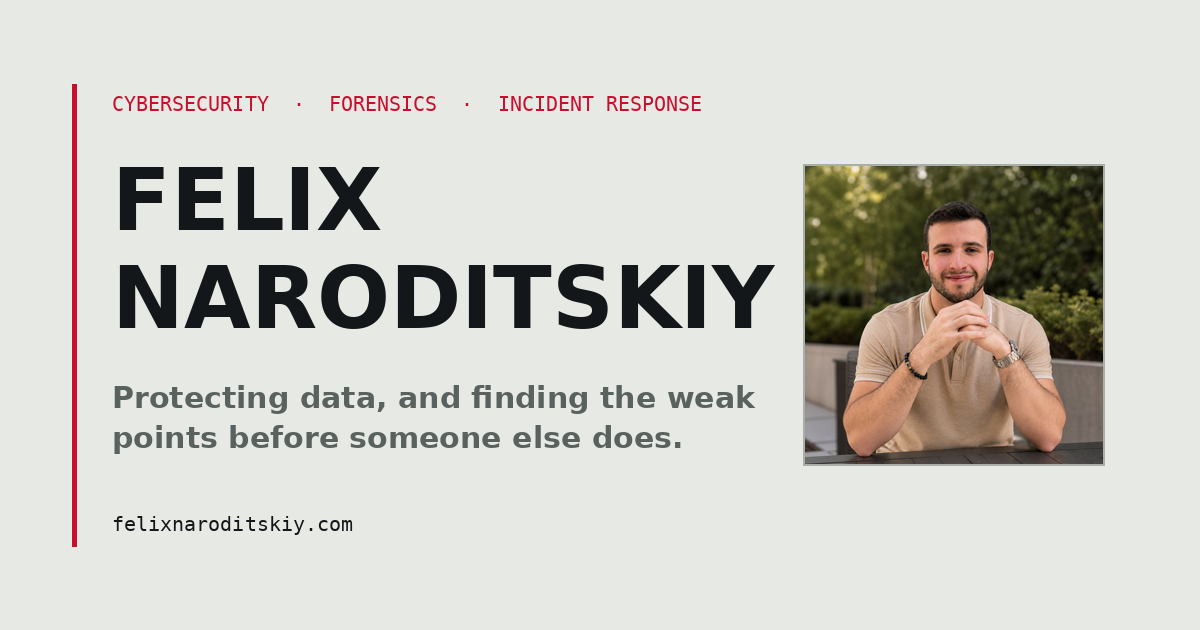
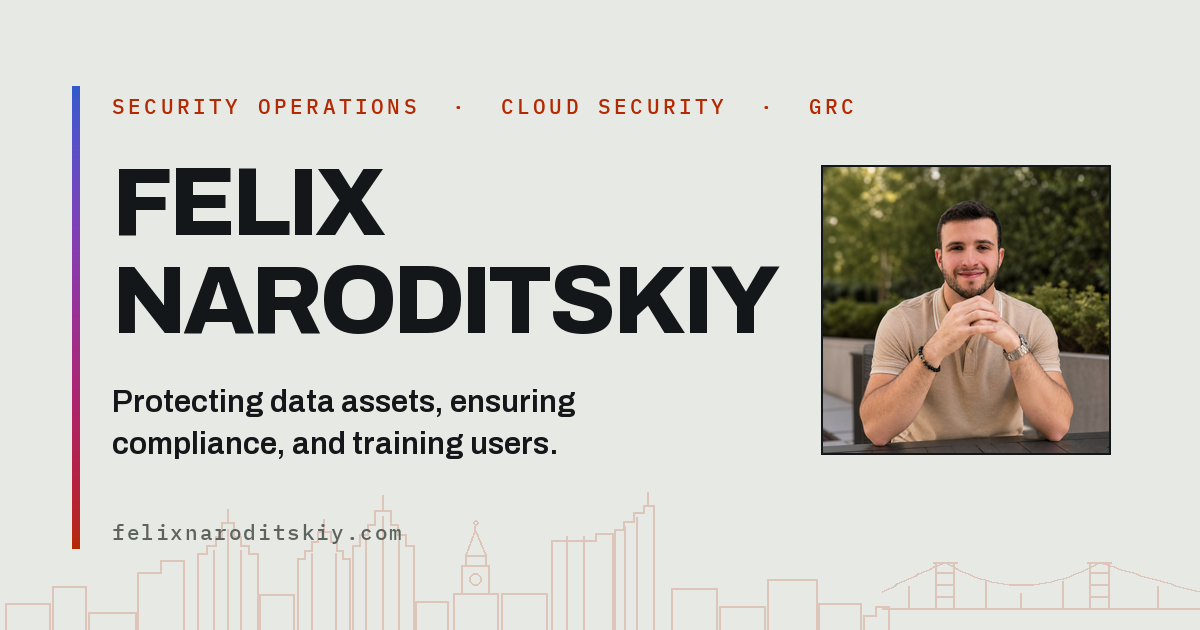
updated readme

diff --git a/style.css b/style.css
@@ -873,8 +873,8 @@ a:focus-visible,button:focus-visible{outline:2px solid var(--signal);outline-off
 }
 
 /* ============================================================ EMPLOYER MARKS
-   Real logo files, boxed on the panel colour. Keeps the Stemuli mark's own
-   palette off the crimson. */
+   Real logo files, boxed on the panel colour. Keeps each mark's own palette
+   off the accent. */
 .org{border:1px solid var(--rule-2);background:var(--panel);margin-bottom:20px}
 .org:last-child{margin-bottom:0}
 .org-hd{
@@ -1284,8 +1284,9 @@ button.shot-thumb{padding:0;font:inherit;color:inherit;cursor:zoom-in}
      --void / --void-2 / --void-3     surfaces, base to raised
      --void-ink / -mute / -faint      text, primary to tertiary
      --void-rule / --void-rule-2      hairlines, subtle then structural
-     --signal-d                       crimson lifted to clear AA on near-black;
-                                      #C8102E only reaches 3.3:1 there
+     --signal-d                       the accent lifted to clear AA on
+                                      near-black; the paper value only
+                                      reaches 3.3:1 there
 
    All dark-surface text clears WCAG AA (4.5:1) against --void, --void-2 and
    --void-3. Dark scenes exist in both themes: in light they sink below the
@@ -1503,7 +1504,7 @@ html.js:not(.scrolled) .dark-top .navtog{color:var(--void-ink);border-color:var(
 .scene-dark .hero .lbl,.hero.scene-dark .lbl{color:var(--signal-d)}
 .scene-dark .hero h1 .red::after,.hero.scene-dark h1 .red::after{background:var(--void-ink)}
 .scene-dark .hero h1 .red:nth-child(2)::after,.hero.scene-dark h1 .red:nth-child(2)::after{background:var(--signal-d)}
-/* The whole tagline carries the crimson, not a phrase inside it. Separates
+/* The whole tagline carries the accent, not a phrase inside it. Separates
    it from the white name above. */
 .hero.scene-dark .tagline{color:var(--signal-d)}
 .hero.scene-dark .lede{color:var(--void-mute)}
@@ -1985,7 +1986,7 @@ html.intro .scroll-cue{animation-play-state:paused}
   color:var(--void-ink);
 }
 
-/* Titles, with a crimson block starting each one. .term-top is left out. Its
+/* Titles, with an accent block starting each one. .term-top is left out. Its
    path already opens with a prompt marker. */
 .kc-top .t,.rec-top .t,.feed-top .t,.lab-ex-top .t,.panel-top .t{color:var(--void-ink)}
 .kc-top .t::before,.rec-top .t::before,.feed-top .t::before,
@@ -2013,7 +2014,7 @@ html.intro .scroll-cue{animation-play-state:paused}
 
 
 /* =================================================== RECORD AND FEED BULLETS
-   Same marker as the experience bullets. A short crimson rule, not a disc. */
+   Same marker as the experience bullets. A short accent rule, not a disc. */
 .pts{list-style:none;display:grid;gap:10px;margin:0}
 .pts li{position:relative;padding-left:20px;line-height:1.58}
 .pts li::before{

diff --git a/README.md b/README.md
@@ -1,6 +1,6 @@
 # DerpTG.github.io
 
-My personal cybersecurity portfolio. Digital forensics, malware analysis, and incident response, with the governance and compliance work alongside it.
+My personal cybersecurity portfolio. Security operations, incident response, identity and cloud security, and GRC, with the digital forensics and malware analysis behind it.
 
 **Live at:** [felixnaroditskiy.com](https://felixnaroditskiy.com)
 
@@ -15,17 +15,29 @@ My personal cybersecurity portfolio. Digital forensics, malware analysis, and in
 
 ## Design
 
-Direction is **"evidence room"**: a cool gray-green ground rather than paper, near-black ink, and one saturated crimson used strictly as an index marker, never as decoration.
+Direction is **"evidence room at sunset"**: a cool gray-green ground rather than paper, near-black ink, and a single accent hue that walks the sunset arc as you move down a page.
 
-- `--ground #E7E9E4` · `--panel #F4F5F2` · `--ink #14171A` · `--signal #C8102E`
+- `--ground #E7E9E4` · `--panel #F4F5F2` · `--ink #14171A` · `--signal oklch(.505 .18 var(--acc-h))`
 - **Type:** Archivo for display and prose, IBM Plex Mono for data only. If it isn't machine-readable (a date, a count, a hash, an identifier) it isn't mono.
 - Every text colour clears WCAG AA (4.5:1) against every surface it is painted on, in both themes. Checked by measuring the rendered pages, not by eye.
 
-**Two surfaces.** The evidence room is the resting state. A near-black counter-surface (`--void`) carries tokens mirroring the light ones one for one, so a component moves between them by swapping tokens rather than being rewritten. `--signal-d` is the lifted crimson for dark backgrounds, and the severity trio has `-d` twins, because the paper values are too dim on near-black.
+**One hue, moving.** `--acc-h` is the accent hue in degrees, and `main.js` walks it from 265 (dawn indigo) to 395 (sunset orange) with scroll depth. Everything accent-coloured is mixed off `--signal`, so index marks, links, buttons, the hero's node field, the background blooms and the footer skyline all travel together: the foot of a page is a different colour from its head. The property is registered with `@property` so it interpolates as a number rather than stepping between whole degrees.
+
+Lightness and chroma are held fixed, which is the whole reason the sweep is safe. `oklch(.505 .18 H)` clears **4.58:1** at its worst hue (265, the blue end) against `--ground`, `--panel` and `--panel-2`, and stays inside sRGB; the dark-surface twin `oklch(.72 .14 H)` clears **5.14:1**. Raise L and the blue end fails AA, raise C and it clips. Change either and re-measure across the arc, not at one hue.
+
+**Severity is exempt.** `--sev-hi/md/lo` stay fixed red, amber and green and deliberately do not follow `--acc-h`. A CRIT badge that turns blue at the top of the page is a bug, not a theme.
+
+**Two surfaces.** The evidence room is the resting state. A near-black counter-surface (`--void`) carries tokens mirroring the light ones one for one, so a component moves between them by swapping tokens rather than being rewritten. `--signal-d` is the lifted accent for dark backgrounds, and the severity trio has `-d` twins, because the paper values are too dim on near-black.
 
 **Light and dark.** A sun/moon button in the header switches them, and the choice is remembered per browser; with no choice stored the site follows the OS. Because the page paints two surfaces at once, dark is not an inversion. In light the scenes **sink** below the page — near-black on paper. In dark the page becomes the near-black and the scenes **lift** above it, landing the same distance off the ground that `--panel` sits at on paper, so the figure-ground reading survives with the roles exchanged. It is a pure token swap: no component carries a theme-specific rule. `build.py` resolves the theme in an inline script before the first paint, so there is no flash and nothing to fade on load. The site-open animation is untouched by it.
 
-**Where the dark goes.** Full-bleed in page headers. Below them it appears boxed — `.darkbox` panels inset on the paper, so nothing bands across the page. On the subpages the contrast comes from title bars: the terminal path, `projects.log`, the lab feed header, each exercise header, the kill chain. Each bar is near-black with a crimson block starting the title and a matching outline on the panel, while the content underneath stays on paper where dense technical text reads best.
+**Where the dark goes.** Full-bleed in page headers. Below them it appears boxed — `.darkbox` panels inset on the paper, so nothing bands across the page. On the subpages the contrast comes from title bars: the terminal path, `projects.log`, the lab feed header, each exercise header, the kill chain. Each bar is near-black with an accent block starting the title and a matching outline on the panel, while the content underneath stays on paper where dense technical text reads best.
+
+**The sky.** Page headers are dark scenes that sit at the top of a page, so tracking `--acc-h` would only ever paint them the cold end of the arc. They span the whole arc at once instead, from their own fixed base `--sky-h`: indigo overhead, through violet and magenta, to a gold horizon on the bottom edge. Fixed rather than scrolled, because on a short page (404) the header is still on screen when `--acc-h` reaches the far end, and a base of 395 put the horizon at cyan. The warm half is pushed below the fold on purpose — header copy sits top-left, and a peak any higher washes out the scroll cue. Worst header text contrast measures 6.64:1.
+
+**Drift.** `.sb-drift` carries two soft blooms on a 52-second loop behind every page, so the sky is never completely still even on a page nobody is scrolling. Its own element, because `.sb-bloom`'s transform is already spoken for by the scroll parallax and two transforms cannot share one property. Off outright under reduced motion, which also means the accent holds at its `:root` default rather than walking.
+
+**Philadelphia.** A single-stroke Center City skyline runs across the footer of every page — Liberty Place, City Hall with Billy Penn on top, the two Comcast towers, the Ben Franklin Bridge. It is a CSS *mask* filled with `var(--signal)` rather than a background image, so it arrives at whatever hue the foot of the page has reached, which is the warm end. `aspect-ratio` pins the box to the drawing's own proportions so `mask-size: 100% auto` fills it exactly at any width: no squashing, no clipped antenna. Under 640px it shows half the drawing at twice the size, since at phone width the full span turns every landmark into a hairline.
 
 **Signature:** the hero name is revealed by retracting redaction bars. Pure CSS, over ordinary markup, so it stays selectable, indexable, and readable with animation off.
 
@@ -60,7 +72,7 @@ Named sections in the source, each carrying its own notes:
 | Where | What |
 |-------|------|
 | `MOTION LAYER` (css) · `Scroll reveals and widget swaps` (js) | scroll reveals, hover, widget swaps, animated pane heights |
-| `Motion engine` (js) | nav plate, directional entrances, the scroll channel |
+| `Motion engine` (js) | nav plate, directional entrances, the scroll channel (writes `--sp` and `--acc-h`) |
 | `Hero node field` (js) | the canvas background on every page header |
 | `Case-open intro` (js) | the opening animation |
 | `THEMES` (css) · `Theme toggle` (js) | the dark token set and the sun/moon switch |
